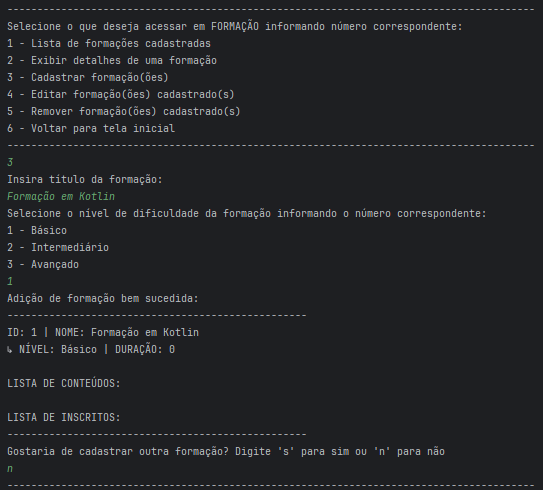
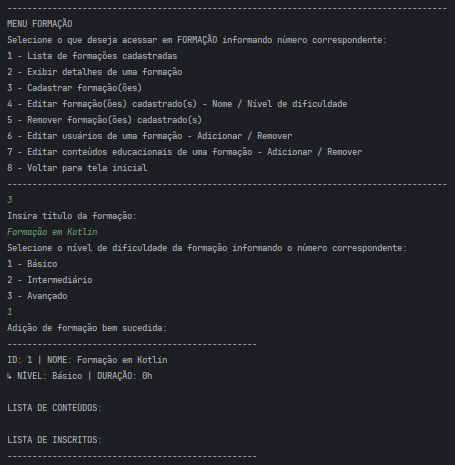
alteração/adição de imagens em "Screenshots de demonstração"

diff --git a/README.md b/README.md
@@ -65,15 +65,33 @@ Esses códigos estão divididos em packages (pastas/diretórios). Segue a descri
 
 <br>
 
-**Criação da formação:** <br>
+**Parte da criação da formação:**
+
 ![criandoFormacao.png](imagensREADME/criandoFormacao.png "Criação de uma formação")
 
+<br>
 
+**Parte do cadastro de usuários em uma formação:**
+
+![cadastrandoUsuariosFormacao.png](imagensREADME/cadastrandoUsuariosFormacao.png "Inserindo usuários em uma formação")
+
+<br>
+
+**Parte de loop de cadastro de conteúdos educacionais em uma mesma formação:**
+
+![cadastrandoConteudosFormacao.png](imagensREADME/cadastrandoConteudosFormacao.png "Inserindo conteúdos educacionais em uma formação")
 
 <br>
 
 ### Validação de valor de entrada:
 
+<br>
+
+Validações ao cadastrar usuário:
+* Tentativas barradas ao preencher o nome do usuário: dígito, vazio, caractere especial
+* Tentativa barrada ao cadastrar usuário: usuário com mesmo nome e tipo já havia sido previamente cadastrado no sistema
+
+![validacaoCadastroUsuario.png](imagensREADME/validacaoCadastroUsuario.png "Validações em cadastro de usuário")
 
 <br>
 
